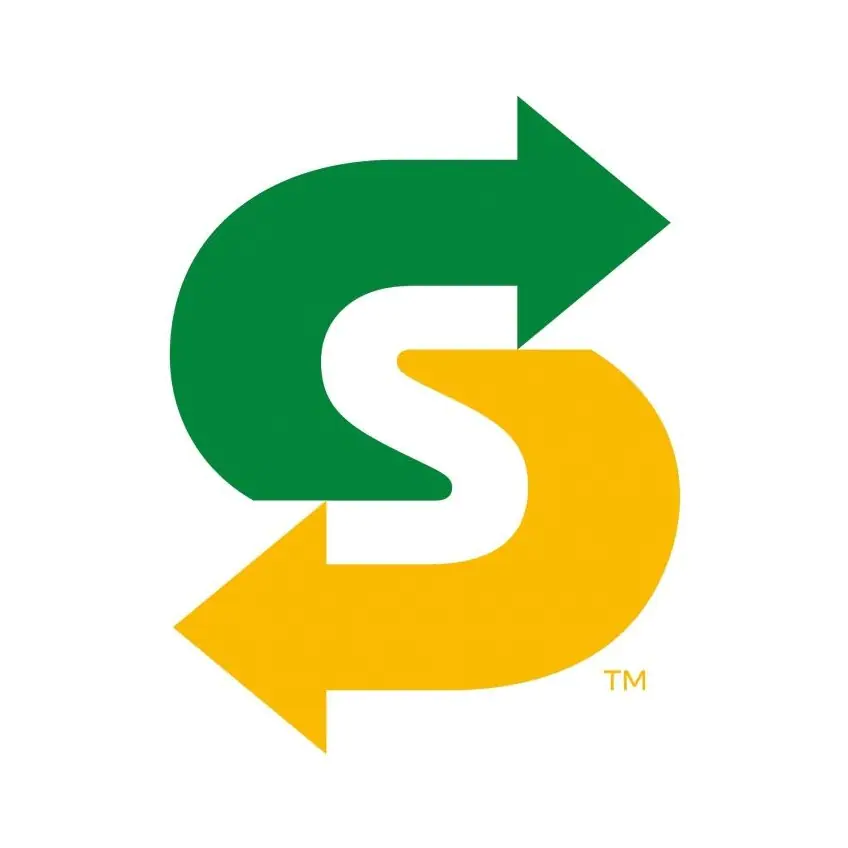
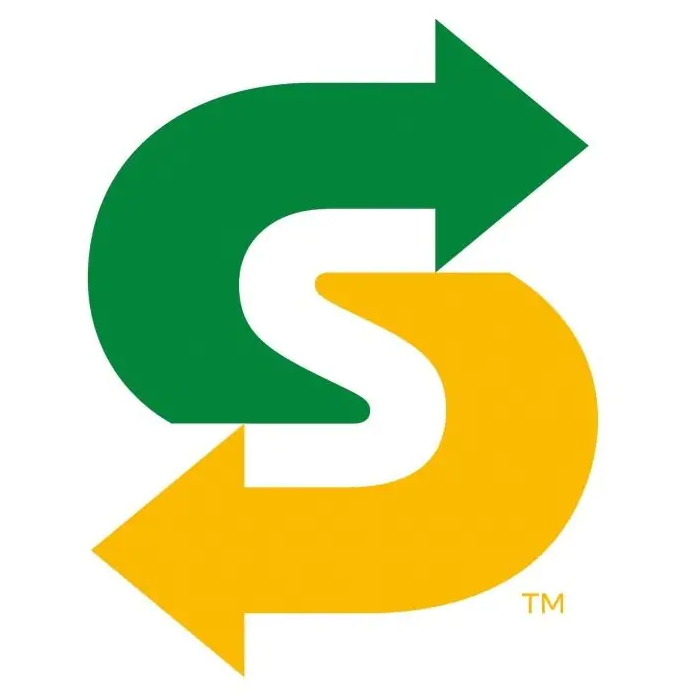
make carousel images more even

Changed region(s): [[0.12, 0.03, 0.87, 0.99], [0.75, 0.84, 0.81, 0.9]]

diff --git a/index.html b/index.html
@@ -198,7 +198,7 @@
               <div class="row">
                 <div class = "col-lg-2 col-md-3 col-sm-3 col-xs-3"></div>
                 <div class = "col-lg-2 col-md-3 col-sm-3 col-xs-3 hovercontainer">
-                  <img src="images/clients/sq/coinbase-noword.png" class="hoverimage" >
+                  <img src="images/clients/sq/coinbase-noword.png" class="hoverimage">
                   <div class="middle">
                     <div class="hovertext"> Coinbase </div>
                   </div>
@@ -260,7 +260,7 @@
               <div class="row">
                 <div class = "col-lg-2 col-md-3 col-sm-3 col-xs-3"></div>
                 <div class = "col-lg-2 col-md-3 col-sm-3 col-xs-3 hovercontainer">
-                  <img src="images/clients/sq/airbnb-noword.jpg" class="hoverimage">
+                  <img src="images/clients/sq/airbnb-noword.jpeg" class="hoverimage">
                   <div class="middle">
                     <div class="hovertext"> Airbnb </div>
                   </div>

diff --git a/css/style.css b/css/style.css
@@ -2381,7 +2381,8 @@ table.table-bordered > tbody > tr > td{
   width: 100%;
   transition: .5s ease;
   backface-visibility: hidden;
-	height: 200px;
+	height: 180px;
+	object-fit: contain;
 }
 
 .middle {
